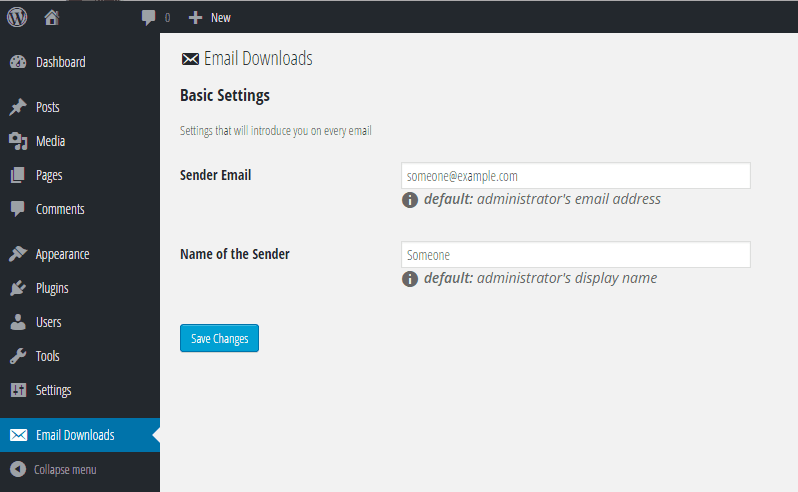
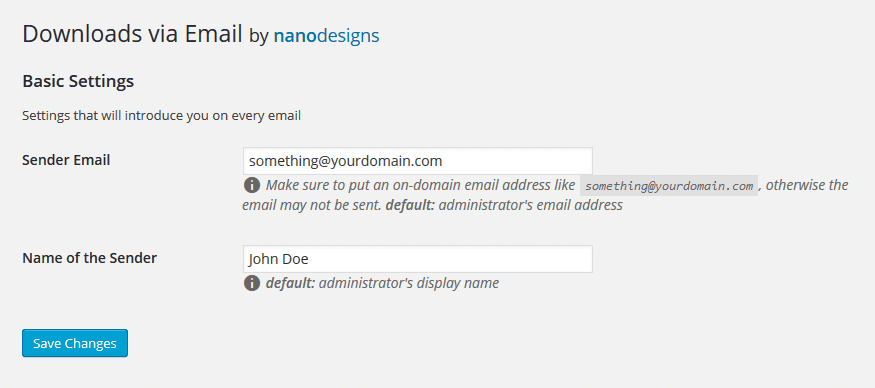
Local stable version + Promo + NewScreenshot

diff --git a/css/admin-stylesheet.css b/css/admin-stylesheet.css
@@ -1,0 +1,55 @@
+@charset "UTF-8";
+
+.ed-column-left,
+.ed-column-right{
+	position: relative;
+}
+.ed-column-left{
+	float: left;
+	width: 73%;
+	padding-right: 2%;
+}
+.ed-column-right{
+	width: 21%;
+	float: right;
+	padding: 2%;
+	background-color: #e1e1e1;
+}
+.ed-column-right h3{
+	margin-top: 0;
+}
+.ed-clearfix{
+	clear: both;
+}
+.img-right{
+	float: right;
+	margin-left: 1em;
+	width: 100px;
+}
+.ed-text{
+	width: 100%;
+	padding: 5px;
+	border-radius: 4px;
+}
+.ed-list{
+	list-style-type: disc;
+}
+.ed-list li{
+	margin-left: 20px;
+}
+.ed-download-btn .dashicons{
+	vertical-align: middle;
+}
+.link-none{
+	text-decoration: none;
+}
+
+@media (max-width: 768px) {
+	.ed-column-left,
+	.ed-column-right{
+		float: left;
+		width: 96%;
+		clear: both;
+		padding: 2%;
+	}
+}

diff --git a/download-via-email.php b/download-via-email.php
@@ -1,6 +1,6 @@
 <?php
 /**
- * Plugin Name: Email Downloads
+ * Plugin Name: Download via Email
  * Plugin URI: http://nanodesignsbd.com/
  * Description: Embed a form in your pages and posts that accept an email address in exchange for a file to download. The plugin is simpler, quicker, with minimal database usage, and completely in WordPress' way.
  * Version: 1.0.0
@@ -39,7 +39,8 @@ $maximum_link_duration = 12; // in hours
 
 /**
  * Set basic settings on the activation of the plugin.
- * @return void
+ *
+ * Saved in 'options' table.
  * ------------------------------------------------------------------------------
  */
 function nanodesigns_email_downloads_activate() {
@@ -61,9 +62,10 @@ register_activation_hook( __FILE__, 'nanodesigns_email_downloads_activate' );
 
 
 /**
- * Shortcode
- * Usage: [email-downloads file="http://path/to/file.ext"]
- * @param  array $atts attributes that passed through shortcode.
+ * Shortcode.
+ * Usage: [email-downloads file="http://path/to/file.ext"].
+ * 
+ * @param  array $atts  attributes that passed through shortcode.
  * @return string       formatted form.
  * ------------------------------------------------------------------------------
  */
@@ -136,8 +138,9 @@ add_shortcode( 'email-downloads', 'nanodesigns_email_downloads_shortcode' );
 
 
 /**
- * The Actual download link processor
- * @return void
+ * The Actual download link processor.
+ *
+ * The function to process the link and let the user download the file or not.
  * ------------------------------------------------------------------------------
  */
 function nanodesigns_let_the_user_download() {
@@ -174,10 +177,9 @@ add_action( 'template_redirect', 'nanodesigns_let_the_user_download' );
 
 
 /**
- * Download link mailer
- * @param  string $email         the user submitted email address
- * @param  string $download_link the author submitted file path (hashed)
- * @return void
+ * Download link mailer.
+ * @param  string $email         the user submitted email address.
+ * @param  string $download_link the author submitted file path (hashed).
  * ------------------------------------------------------------------------------
  */
 function nanodesigns_email_downloads( $email, $download_link ) {
@@ -241,9 +243,9 @@ function nanodesigns_email_downloads( $email, $download_link ) {
 
 
 /**
- * Storing email addresses into our table
+ * Storing email addresses into our table.
+ * 
  * @param  string $email the user submitted email address
- * @return void
  * ------------------------------------------------------------------------------
  */
 function nanodesigns_store_emails( $email ) {
@@ -257,7 +259,7 @@ function nanodesigns_store_emails( $email ) {
             $ip_address = nanodesigns_get_the_ip();
             $hashed_string = md5( $currenttimestring . $ip_address );
 
-            update_option( "edmail_{$hashed_string}", $email );
+            update_option( "nanoedmail_{$hashed_string}", $email );
 		}
 	endif;
 }
@@ -265,9 +267,11 @@ function nanodesigns_store_emails( $email ) {
 
 
 /**
- * Get the user's IP address
+ * Get the user's IP address.
+ * 
  * @author Barış Ünver
  * @link http://code.tutsplus.com/articles/creating-a-simple-contact-form-for-simple-needs--wp-27893
+ * 
  * @return string IP address, formatted.
  * ------------------------------------------------------------------------------
  */
@@ -286,6 +290,7 @@ function nanodesigns_get_the_ip() {
 
 /**
  * Checking whether the email already exists or not.
+ * 
  * @param  integer $email email address to check.
  * @return boolean        exists or not.
  * ------------------------------------------------------------------------------
@@ -301,18 +306,19 @@ function nano_email_exists( $email ) {
 
 
 /**
- * Plugin Options Page (Settings)
+ * Email lists query.
+ * 
+ * @param  integer $posts_per_page limiting the query.
+ * @param  integer $offset         escaping no. of items.
+ * @return array                   emails that are stored.
+ * ------------------------------------------------------------------------------
  */
-require_once 'ed-options.php';
-
-
-
 function nano_email_lists( $posts_per_page = null, $offset = null ) {
     global $wpdb;
     
     $_email_data = wp_cache_get( 'nano_ed_email_storage' );
     if ( false === $_email_data ) {
-        $query = "SELECT option_value FROM {$wpdb->options} WHERE option_name LIKE 'edmail_%' GROUP BY option_id";
+        $query = "SELECT option_value FROM {$wpdb->options} WHERE option_name LIKE 'nanoedmail_%' GROUP BY option_id";
 
         if( $posts_per_page ) {
             $query .= " LIMIT {$posts_per_page}";
@@ -333,3 +339,10 @@ function nano_email_lists( $posts_per_page = null, $offset = null ) {
 
     return $emails;
 }
+
+
+/**
+ * Plugin Options Page (Settings)
+ * using Settings API.
+ */
+require_once 'ed-options.php';

diff --git a/ed-options.php b/ed-options.php
@@ -4,14 +4,28 @@
  *
  * Page to set all the basic settings for the plugin.
  *
- * @package  email-downloads
+ * @package  download-via-email
  */
+
+function email_downloads_enqueue_styles() {
+	$screen = get_current_screen();
+	if( $screen->id === 'toplevel_page_email_downloads' ) {
+		wp_enqueue_style( 'nano_downloads_email', plugins_url('css/admin-stylesheet.css', __FILE__) );
+	}
+}
+add_action( 'admin_enqueue_scripts', 'email_downloads_enqueue_styles' );
 
 function email_downloads_add_admin_menu() {
 	add_menu_page(
-		__( 'Email Downloads', 'email-downloads' ),
-		__( 'Email Downloads', 'email-downloads' ),
-		'manage_options',
+		__( 'Downloads via Email', 'email-downloads' ),
+		__( 'Downloads via Email', 'email-downloads' ),
+
+		/**
+		 * Filter the admin menu access.
+		 *
+		 * Default access privilege: administrator
+		 */
+		apply_filters( 'nano_ed_role', 'manage_options' ),
 		'email_downloads',
 		'email_downloads_options_page_callback',
 		'dashicons-email-alt'
@@ -52,7 +66,7 @@ add_action( 'admin_init', 'email_downloads_settings_init' );
 function email_downloads_sender_email_render() {
 	$options = get_option( 'email_downloads_settings' ); ?>
 
-	<input type="email" class="regular-text" name="email_downloads_settings[ed_sender_email]" value="<?php echo $options['ed_sender_email'] ? $options['ed_sender_email'] : get_option( 'admin_email' ); ?>"> <em class="howto"><span class="dashicons dashicons-info"></span> <?php _e( "<strong>default:</strong> administrator's email address. Make sure to put an on-domain email address like <code>something@yourdomain.com</code>, otherwise the email may not be sent.", "email-downloads" ); ?></em>
+	<input type="email" class="regular-text" name="email_downloads_settings[ed_sender_email]" value="<?php echo $options['ed_sender_email'] ? $options['ed_sender_email'] : get_option( 'admin_email' ); ?>"> <em class="howto"><span class="dashicons dashicons-info"></span> <?php _e( "Make sure to put an on-domain email address like <code>something@yourdomain.com</code>, otherwise the email may not be sent. <strong>default:</strong> administrator's email address", "email-downloads" ); ?></em>
 
 	<?php
 }
@@ -74,21 +88,35 @@ function email_downloads_settings_section_callback() {
 
 function email_downloads_options_page_callback() { ?>
 	<div class="wrap">
-		<form action='options.php' method='post'>		
-			<h2><span class="dashicons dashicons-email-alt"></span> <?php _e( 'Email Downloads', 'email-downloads' ); ?></h2>		
-			<?php
-			settings_fields( 'ed' );
-			do_settings_sections( 'ed' );
-			submit_button();
-			?>
-		</form>
+		
+				<form action='options.php' method='post'>
+
+					<h2><?php printf( __( 'Downloads via Email <small>by <a class="link-none" href="%s"><strong>nano</strong>designs</a></small>', 'email-downloads' ), 'http://nanodesignsbd.com/' ); ?></h2>
+
+					<div class="ed-row">
+						<div class="ed-column-left">
+							<?php
+							settings_fields( 'ed' );
+							do_settings_sections( 'ed' );
+							submit_button();
+							?>
+						</div>
+						<div class="ed-column-right">
+							<?php require_once '__nanodesigns_promo.php'; ?>
+						</div>
+						<div class="ed-clearfix"></div>
+					</div>
+
+				</form>
+			
 
 
 	<?php
 	/**
-	 * Pagination in action
-	 * @link http://tareq.wedevs.com/2011/07/simple-pagination-system-in-your-wordpress-plugins/
+	 * Pagination in action.
 	 * @author  Tareq Hasan
+	 * @link http://tareq.wedevs.com/2011/07/simple-pagination-system-in-your-wordpress-plugins/
+	 * ------------------------------------------------------------------------------
 	 */
 	$pagenum = isset( $_GET['pagenum'] ) ? absint( $_GET['pagenum'] ) : 1;
 
@@ -125,7 +153,7 @@ function email_downloads_options_page_callback() { ?>
 			</table>
 			<?php
 			global $wpdb;
-			$total = $wpdb->get_var( "SELECT COUNT(*) FROM {$wpdb->options} WHERE option_name LIKE 'edmail_%'" );
+			$total = $wpdb->get_var( "SELECT COUNT(*) FROM {$wpdb->options} WHERE option_name LIKE 'nanoedmail_%'" );
 			$num_of_pages = ceil( $total / $posts_per_page );
 
 			$page_links = paginate_links( array(

diff --git a/__nanodesigns_promo.php b/__nanodesigns_promo.php
@@ -1,0 +1,12 @@
+<a href="http://nanodesignsbd.com/freeproducts/wp-adzonia/" target="_blank"><img src="https://github.com/nanodesigns/wp-adzonia/blob/master/assets/icon-128x128.png?raw=true" alt="WP AdZonia - WordPress Ad Management Plugin by nanodesigns" class="img-right"><strong></strong></a>
+<h3>WP AdZonia</h3>
+<h4>Minimal Ad Manager WordPress Plugin</h4>
+<ul class="ed-list">
+	<li>Simplest, easiest, and WordPress' way</li>
+	<li>Can be integrated with shortcode, PHP function, WP AdZonia Widget</li>
+	<li>Enable add before content/after content (beta feature)</li>
+	<li>Open Source ☺</li>
+</ul>
+<a class="button ed-download-btn" href="http://nanodesignsbd.com/freeproducts/wp-adzonia/" target="_blank"><strong><span class="dashicons dashicons-download"></span> FREE DOWNLOAD</strong></a>
+<hr>
+An open source plugin by <a class="link-none" href="http://nanodesignsbd.com" target="_blank"><strong>nano</strong>designs</a>

diff --git a/uninstall.php b/uninstall.php
@@ -4,7 +4,7 @@
  *
  * Page to delete data associated with the plugin on its uninstallation.
  *
- * @package  email-downloads
+ * @package  download-via-email
  */
 
 //if uninstall not called from WordPress exit
@@ -18,3 +18,17 @@ delete_option( $option_name );
 // For site options in multisite
 if ( is_multisite() && get_site_option( $option_name ) )
 	delete_site_option( $option_name );
+
+
+/**
+ * Delete all the saved email addresses
+ */
+global $wpdb;
+$delete_saved_emails = $wpdb->query( 
+							$wpdb->prepare( 
+								"DELETE FROM $wpdb->options
+								 WHERE option_name LIKE %s
+								",
+							        'nanoedmail_%' 
+						        )
+						);
